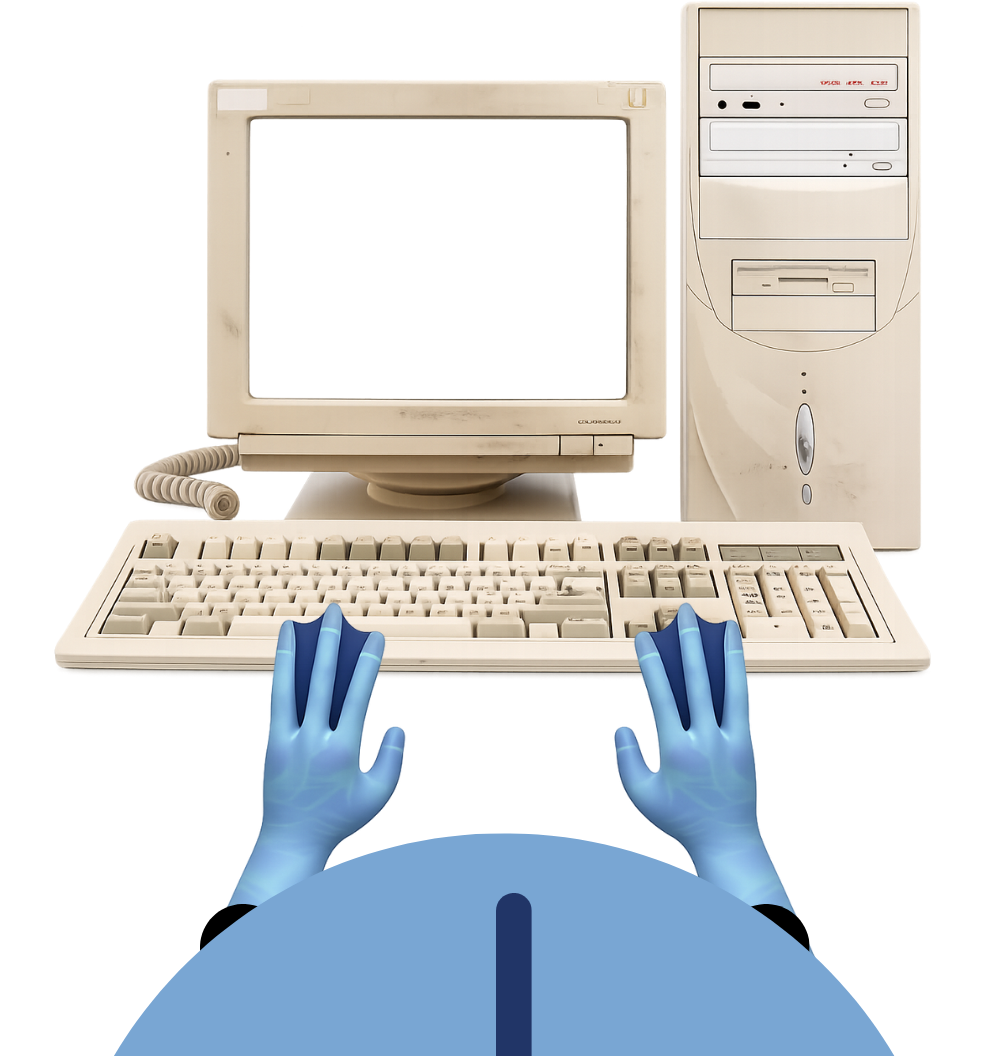
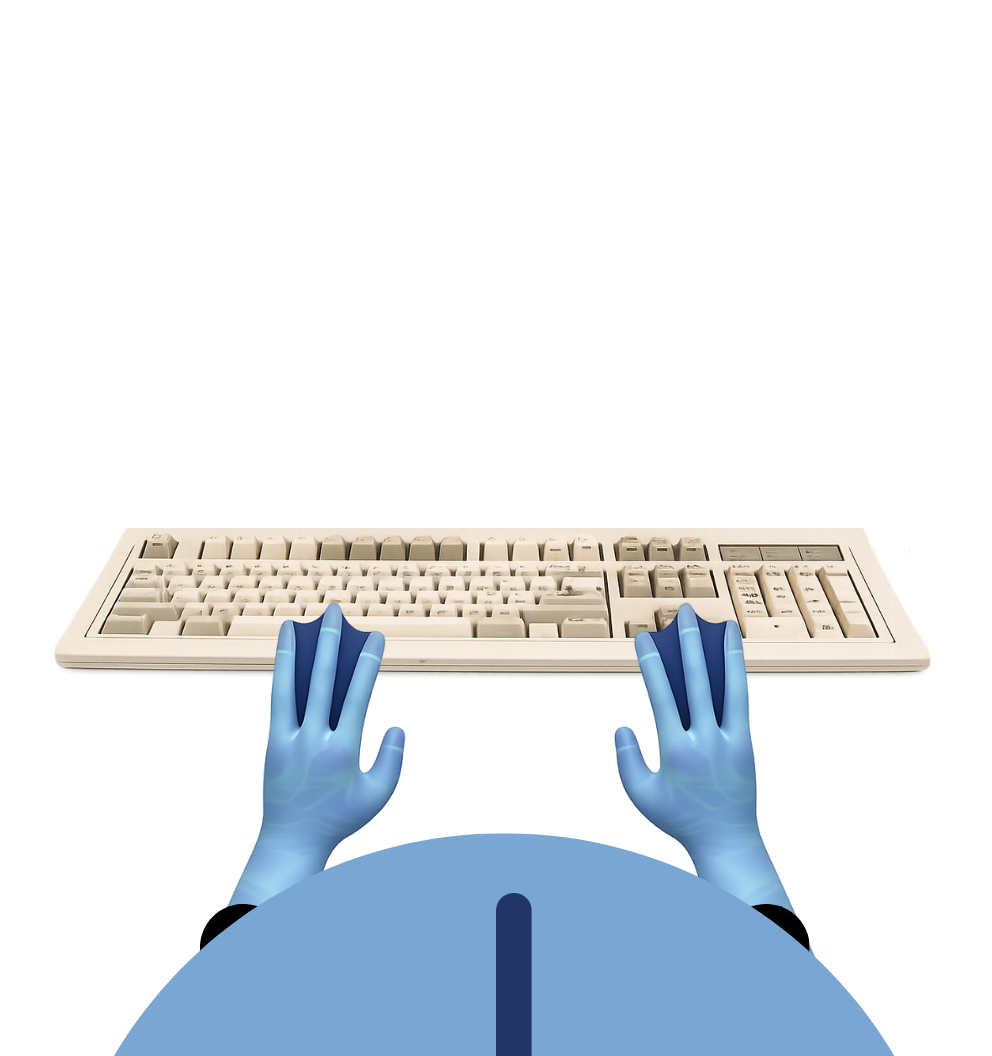
Thinking animation added as well as new animation

Changed region(s): [[0.125, 0.0, 0.9375, 0.5312]]

diff --git a/app/components/LaptopMockup.tsx b/app/components/LaptopMockup.tsx
@@ -4,7 +4,7 @@ import { useEffect, useRef, useState, ReactNode } from 'react'
 import Image from 'next/image'
 import DomainForm from './DomainForm'
 
-type LaptopState = 'idle' | 'lhs' | 'rhs'
+type LaptopState = 'idle' | 'lhs' | 'rhs' | 'thinking'
 
 interface LaptopMockupProps {
   children: ReactNode
@@ -16,6 +16,8 @@ export default function LaptopMockup({ children, onTyping }: LaptopMockupProps) 
   const containerRef = useRef<HTMLDivElement>(null)
   const screenRef = useRef<HTMLDivElement>(null)
   const idleTimeoutRef = useRef<NodeJS.Timeout | null>(null)
+  const thinkingTimeoutRef = useRef<NodeJS.Timeout | null>(null)
+  const thinkingShownRef = useRef(false)
   
   // Track state in refs only - no React state batching interference
   const laptopStateRef = useRef<LaptopState>('idle')
@@ -41,27 +43,28 @@ export default function LaptopMockup({ children, onTyping }: LaptopMockupProps) 
       clearTimeout(idleTimeoutRef.current)
     }
 
-    const comingFromIdle = !isTypingRef.current
-
-    // Mark that we're typing
-    if (!isTypingRef.current) {
+    // If currently in thinking state, transition to typing state
+    if (laptopStateRef.current === 'thinking') {
+      const nextState = lastStateRef.current === 'lhs' ? 'rhs' : 'lhs'
+      lastStateRef.current = nextState
+      laptopStateRef.current = nextState
       isTypingRef.current = true
+      updateImage()
+      onTyping?.(true)
+      // Return to idle after 500ms of no typing
+      idleTimeoutRef.current = setTimeout(() => {
+        returnToIdle()
+      }, 500)
+      return
     }
 
-    // Toggle between lhs and rhs
+    isTypingRef.current = true
     const nextState = lastStateRef.current === 'lhs' ? 'rhs' : 'lhs'
     lastStateRef.current = nextState
     laptopStateRef.current = nextState
 
-    // If coming from idle, use requestAnimationFrame for gentler transition
-    if (comingFromIdle) {
-      requestAnimationFrame(() => {
-        updateImage()
-      })
-    } else {
-      // For subsequent keystrokes, update immediately
-      updateImage()
-    }
+    // Update immediately
+    updateImage()
 
     onTyping?.(true)
 
@@ -123,12 +126,22 @@ export default function LaptopMockup({ children, onTyping }: LaptopMockupProps) 
     preloadImage('/idle.png')
     preloadImage('/lhs.png')
     preloadImage('/rhs.png')
+    preloadImage('/think.png')
+  }, [])
+
+  useEffect(() => {
+    // Show thinking state on initial mount only
+    laptopStateRef.current = 'thinking'
+    updateImage()
   }, [])
 
   useEffect(() => {
     return () => {
       if (idleTimeoutRef.current) {
         clearTimeout(idleTimeoutRef.current)
+      }
+      if (thinkingTimeoutRef.current) {
+        clearTimeout(thinkingTimeoutRef.current)
       }
     }
   }, [])
@@ -164,6 +177,8 @@ export default function LaptopMockup({ children, onTyping }: LaptopMockupProps) 
         return '/lhs.png'
       case 'rhs':
         return '/rhs.png'
+      case 'thinking':
+        return '/think.png'
       case 'idle':
       default:
         return '/idle.png'
@@ -171,9 +186,22 @@ export default function LaptopMockup({ children, onTyping }: LaptopMockupProps) 
   })()
 
   return (
-    <div className="w-full flex flex-col items-center justify-center px-4 sm:px-6 md:px-8" ref={containerRef}>
-      {/* Laptop mockup container - responsive sizing */}
-      <div className="relative w-full max-w-4xl">
+    <>
+      <style>{`
+        @keyframes slideUpIn {
+          from {
+            transform: translateY(100px);
+            opacity: 0;
+          }
+          to {
+            transform: translateY(0);
+            opacity: 1;
+          }
+        }
+      `}</style>
+      <div className="w-full flex flex-col items-center justify-center px-4 sm:px-6 md:px-8" ref={containerRef}>
+        {/* Laptop mockup container - responsive sizing */}
+        <div className="relative w-full max-w-4xl">
         <Image
           src={imageSrc}
           alt="Laptop mockup"
@@ -185,7 +213,7 @@ export default function LaptopMockup({ children, onTyping }: LaptopMockupProps) 
           style={{ transition: 'opacity 100ms ease-out' }}
         />
 
-        {/* Virtual screen overlay - scales to fit laptop screen at any resolution */}
+        {/* Virtual screen overlay - fixed 1920x1080, scales via transform */}
         <div
           ref={screenRef}
           className="absolute inset-0"
@@ -193,27 +221,28 @@ export default function LaptopMockup({ children, onTyping }: LaptopMockupProps) 
             width: '1920px',
             height: '1080px',
             transformOrigin: 'top left',
-            pointerEvents: 'none',
+            pointerEvents: 'none', // Allow pointer events through to content
+            animation: 'slideUpIn 0.8s cubic-bezier(0.34, 1.56, 0.64, 1) forwards',
           }}
         >
-          {/* Screen content area - positioned within virtual screen */}
+          {/* Screen content area - positioned within virtual screen bounds */}
           <div
             className="absolute flex items-center justify-center"
             style={{
-              // Positioned inside the laptop screen area (proportional to 1920x1080)
-              // Adjusted to match actual screen position in the mockup
-              top: '180px',      // ~9.4% - screen starts higher
-              left: '100px',     // ~5.2% of 1920
-              right: '100px',    // ~5.2% of 1920
-              bottom: '400px',   // ~37% - more space for keyboard
-              pointerEvents: 'auto',
-              overflow: 'hidden',
+              // Positioned inside the laptop screen area with proportional insets
+              top: '180px',        // ~9.4% from top
+              left: '100px',       // ~5.2% from left
+              right: '100px',      // ~5.2% from right
+              bottom: '400px',     // ~37% from bottom (keyboard space)
+              pointerEvents: 'auto', // Re-enable pointer events for content
             }}
           >
+            {/* Screen content container - controls form sizing and centering */}
             <div
-              className="w-full h-full flex items-center justify-center"
+              className="flex items-center justify-center w-full h-full"
               style={{
-                overflow: 'auto',
+                maxWidth: '90%', // Leave padding inside screen
+                maxHeight: '100%',
               }}
             >
               {children || <DomainForm onTyping={onTyping} />}
@@ -222,5 +251,6 @@ export default function LaptopMockup({ children, onTyping }: LaptopMockupProps) 
         </div>
       </div>
     </div>
+    </>
   )
 }

diff --git a/app/components/DomainForm.tsx b/app/components/DomainForm.tsx
@@ -19,7 +19,9 @@ interface DomainFormProps {
   onTyping?: (isTyping: boolean) => void
 }
 
-export default function DomainForm({ onTyping }: DomainFormProps) {
+export default function DomainForm({ 
+  onTyping,
+}: DomainFormProps) {
   const inputRef = useRef<HTMLInputElement>(null)
   const hasUserTypedRef = useRef(false)
   
@@ -123,18 +125,25 @@ export default function DomainForm({ onTyping }: DomainFormProps) {
 
   return (
     <div
-      className="p-6 rounded-lg border-2 flex flex-col"
+      className="rounded-lg border-2 flex flex-col"
       style={{
         backgroundColor: '#f1e6c7',
         borderColor: 'var(--border)',
-        width: '1400px',  // Fixed width in virtual screen pixels (leaves ~260px margin)
-        height: '300px',  // Fixed height in virtual screen pixels
+        // Layout-agnostic: constrained within parent container
+        width: '100%',  // Fill parent container width
+        maxWidth: '100%', // Never exceed parent bounds
+        minWidth: 0, // Allow flex children to shrink below auto
+        padding: 'clamp(8px, 3%, 24px)',
+        gap: 'clamp(6px, 2%, 12px)',
       }}
     >
-      <div className="flex flex-col gap-3">
+      <div className="flex flex-col w-full" style={{ gap: 'clamp(6px, 2%, 12px)', minWidth: 0 }}>
         <div className="flex-shrink-0">
           <motion.h1
-            className="text-3xl font-bold mb-1"
+            className="font-bold mb-1"
+            style={{
+              fontSize: 'clamp(16px, 4vw, 28px)',
+            }}
             initial={{ opacity: 0 }}
             animate={{ opacity: 1 }}
             transition={{ delay: 0.1, duration: 0.5 }}
@@ -142,7 +151,10 @@ export default function DomainForm({ onTyping }: DomainFormProps) {
             Domain
           </motion.h1>
           <motion.p
-            className="text-sm text-[var(--muted-foreground)]"
+            className="text-[var(--muted-foreground)]"
+            style={{
+              fontSize: 'clamp(11px, 2vw, 14px)',
+            }}
             initial={{ opacity: 0 }}
             animate={{ opacity: 1 }}
             transition={{ delay: 0.2, duration: 0.5 }}
@@ -152,7 +164,8 @@ export default function DomainForm({ onTyping }: DomainFormProps) {
         </div>
 
         <motion.div
-          className="flex items-center gap-2 flex-shrink-0"
+          className="flex items-center flex-shrink-0 w-full"
+          style={{ gap: 'clamp(4px, 1.5%, 8px)', minWidth: 0 }}
           initial={{ opacity: 0 }}
           animate={{ opacity: 1 }}
           transition={{ delay: 0.3, duration: 0.5 }}
@@ -164,11 +177,16 @@ export default function DomainForm({ onTyping }: DomainFormProps) {
               onChange={handleInputChange}
               onKeyPress={handleKeyPress}
               placeholder=""
-              className="w-full font-mono px-3 py-2 rounded-lg border bg-transparent relative text-sm outline-none transition-all"
+              className="w-full font-mono rounded-lg border bg-transparent relative outline-none transition-all"
               style={{
                 backgroundColor: 'var(--background)',
                 borderColor: 'var(--border)',
                 color: 'var(--foreground)',
+                paddingLeft: 'clamp(6px, 1.5%, 12px)',
+                paddingRight: 'clamp(6px, 1.5%, 12px)',
+                paddingTop: 'clamp(4px, 1%, 8px)',
+                paddingBottom: 'clamp(4px, 1%, 8px)',
+                fontSize: 'clamp(10px, 1.8vw, 14px)',
               }}
               disabled={isLoading}
               autoFocus
@@ -179,7 +197,7 @@ export default function DomainForm({ onTyping }: DomainFormProps) {
                 aria-hidden
                 className="pointer-events-none select-none absolute top-1/2 transform -translate-y-1/2 font-mono text-[var(--muted-foreground)]"
                 style={{
-                  left: '12px',
+                  left: 'clamp(6px, 1.5%, 12px)',
                   whiteSpace: 'pre',
                   fontSize: 'inherit',
                 }}
@@ -201,8 +219,16 @@ export default function DomainForm({ onTyping }: DomainFormProps) {
           <motion.button
             onClick={handleScrape}
             disabled={isLoading || !value.trim()}
-            className="text-[var(--primary-foreground)] font-semibold px-4 py-2 rounded-full transition-all duration-200 hover:scale-105 disabled:opacity-50 disabled:cursor-not-allowed border-2 text-sm whitespace-nowrap flex-shrink-0"
-            style={{ backgroundColor: 'var(--primary)', borderColor: 'var(--primary)' }}
+            className="text-[var(--primary-foreground)] font-semibold rounded-full transition-all duration-200 hover:scale-105 disabled:opacity-50 disabled:cursor-not-allowed border-2 whitespace-nowrap flex-shrink-0"
+            style={{
+              backgroundColor: 'var(--primary)',
+              borderColor: 'var(--primary)',
+              paddingLeft: 'clamp(8px, 2%, 16px)',
+              paddingRight: 'clamp(8px, 2%, 16px)',
+              paddingTop: 'clamp(4px, 1%, 8px)',
+              paddingBottom: 'clamp(4px, 1%, 8px)',
+              fontSize: 'clamp(10px, 1.8vw, 14px)',
+            }}
             whileHover={{ scale: 1.05 }}
             whileTap={{ scale: 0.95 }}
           >
@@ -212,16 +238,18 @@ export default function DomainForm({ onTyping }: DomainFormProps) {
 
         {error && (
           <motion.div
-            className="mt-2 p-3 rounded flex-shrink-0"
+            className="rounded flex-shrink-0"
             style={{
               backgroundColor: 'var(--destructive)',
               color: 'var(--destructive-foreground)',
+              padding: 'clamp(6px, 1.5%, 12px)',
+              marginTop: 'clamp(4px, 1%, 8px)',
             }}
             initial={{ opacity: 0, y: -10 }}
             animate={{ opacity: 1, y: 0 }}
             transition={{ duration: 0.3 }}
           >
-            <p className="text-sm font-semibold">Error: {error}</p>
+            <p className="font-semibold" style={{ fontSize: 'clamp(10px, 1.8vw, 14px)' }}>Error: {error}</p>
           </motion.div>
         )}
       </div>
